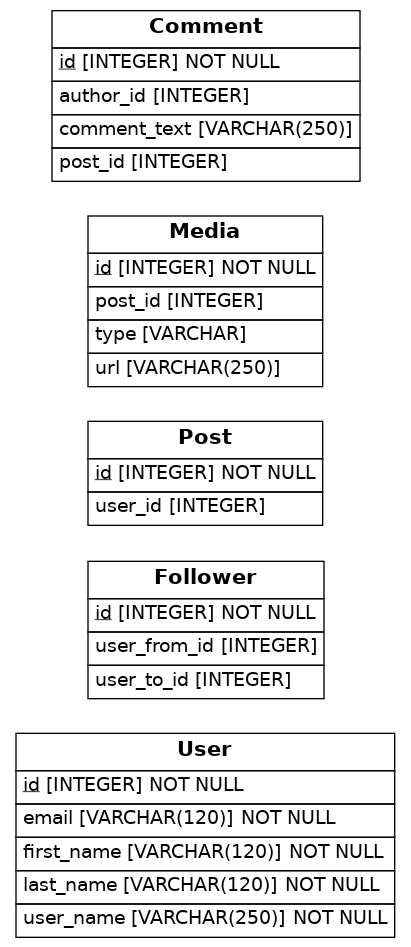
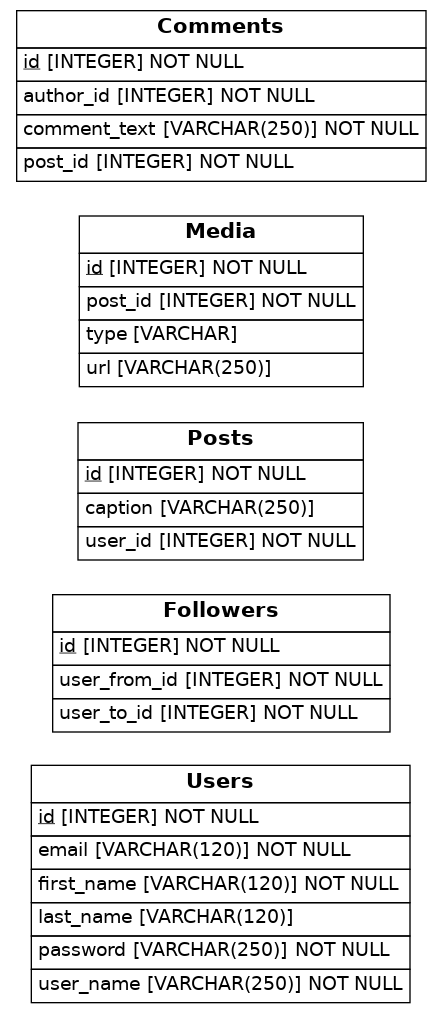
intagramModelingDone

Changed region(s): [[0.0292, 0.0, 0.9927, 1.0]]

diff --git a/src/models.py b/src/models.py
@@ -9,33 +9,36 @@ from eralchemy2 import render_er
 Base = declarative_base()
 
 
-class User(Base):
-    __tablename__ = 'User'
+class Users(Base):
+    __tablename__ = 'Users'
     id = Column(Integer, primary_key=True)
     user_name = Column(String(250), nullable=False)
     first_name = Column(String(120), nullable=False)
-    last_name = Column(String(120), nullable=False)
+    last_name = Column(String(120))
     email = Column(String(120), nullable=False)
     password = Column(String(250), nullable=False)
 
 
-class Follower(Base):
-    __tablename__ = 'Follower'
+class Followers(Base):
+    __tablename__ = 'Followers'
     id = Column(Integer, primary_key=True)
-    user_from_id = Column(Integer, ForeignKey('user.id'))
-    user_to_id = Column(Integer, ForeignKey('user.id'))
-    user = relationship(User)
+    user_from_id = Column(Integer, ForeignKey('users.id'), nullable=False)
+    user_to_id = Column(Integer, ForeignKey('users.id'), nullable=False)
+    user = relationship(Users)
 
     def to_dict(self):
         return {}
 
 
-class Post(Base):
-    __tablename__ = 'Post'
+class Posts(Base):
+    __tablename__ = 'Posts'
     id = Column(Integer, primary_key=True)
-    user_id = Column(Integer, ForeignKey('user.id'))
-    user = relationship(User)
     caption = Column(String(250))
+    user_id = Column(Integer, ForeignKey('users.id'), nullable=False)
+    user = relationship(Users)
+
+    def to_dict(self):
+        return {}
 
 
 class Media(Base):
@@ -43,18 +46,24 @@ class Media(Base):
     id = Column(Integer, primary_key=True)
     type = Column(String)
     url = Column(String(250))
-    post_id = Column(Integer, ForeignKey('post.id'))
-    post = relationship(Post)
+    post_id = Column(Integer, ForeignKey('posts.id'), nullable=False)
+    post = relationship(Posts)
+
+    def to_dict(self):
+        return {}
 
 
-class Comment(Base):
-    __tablename__ = 'Comment'
+class Comments(Base):
+    __tablename__ = 'Comments'
     id = Column(Integer, primary_key=True)
-    comment_text = Column(String(250))
-    author_id = Column(Integer, ForeignKey('user.id'))
-    post_id = Column(Integer, ForeignKey('post.id'))
-    post = relationship(Post)
-    author = relationship(User)
+    comment_text = Column(String(250), nullable=False)
+    author_id = Column(Integer, ForeignKey('users.id'), nullable=False)
+    post_id = Column(Integer, ForeignKey('posts.id'), nullable=False)
+    post = relationship(Posts, foreign_keys=[post_id])
+    author = relationship(Users, foreign_keys=[author_id])
+
+    def to_dict(self):
+        return {}
 
 
 ## Draw from SQLAlchemy base
